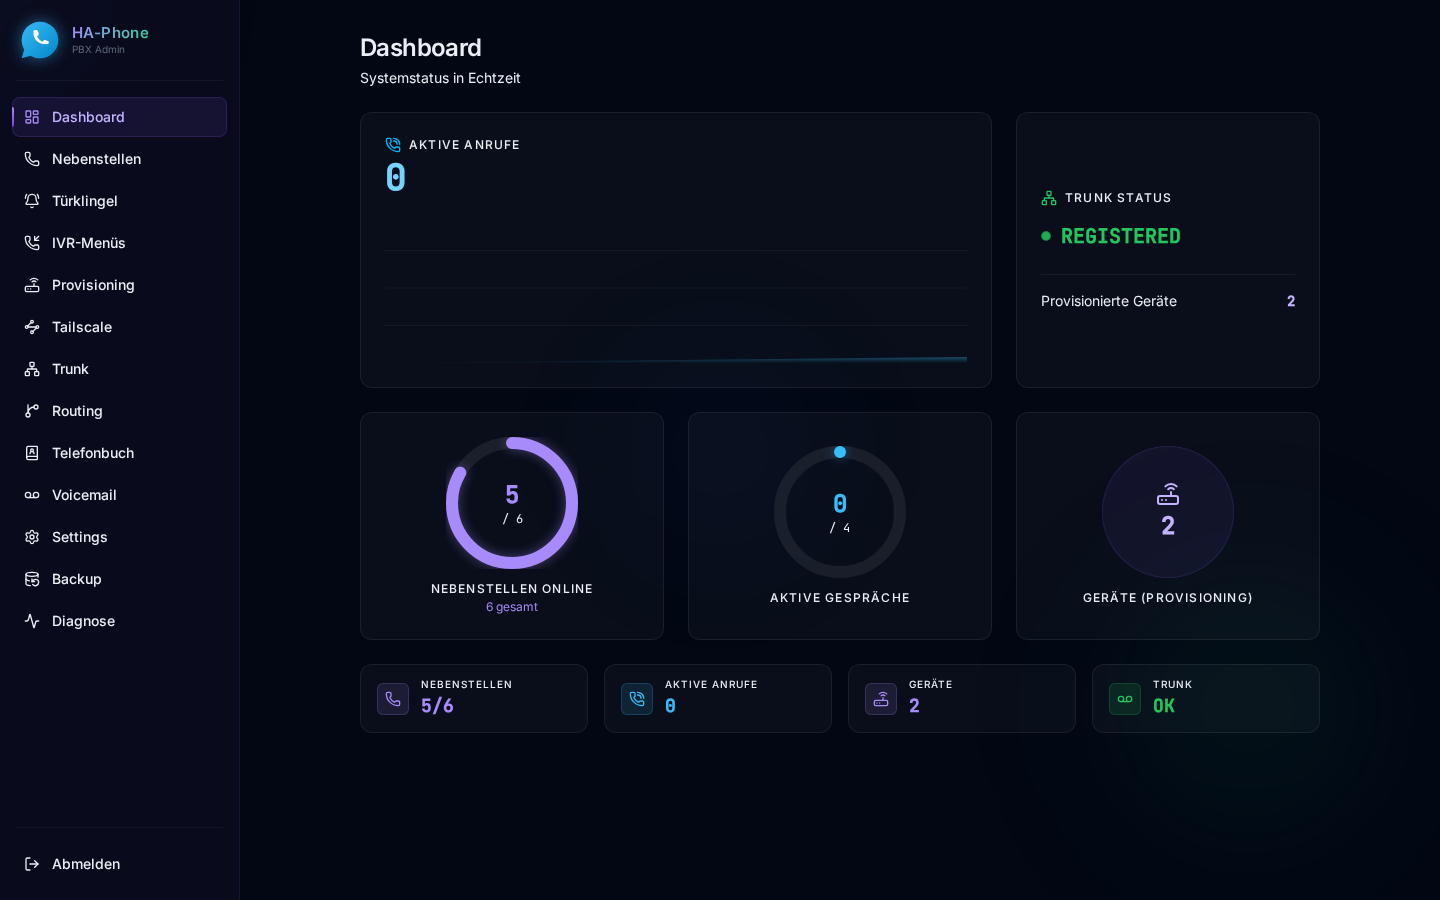
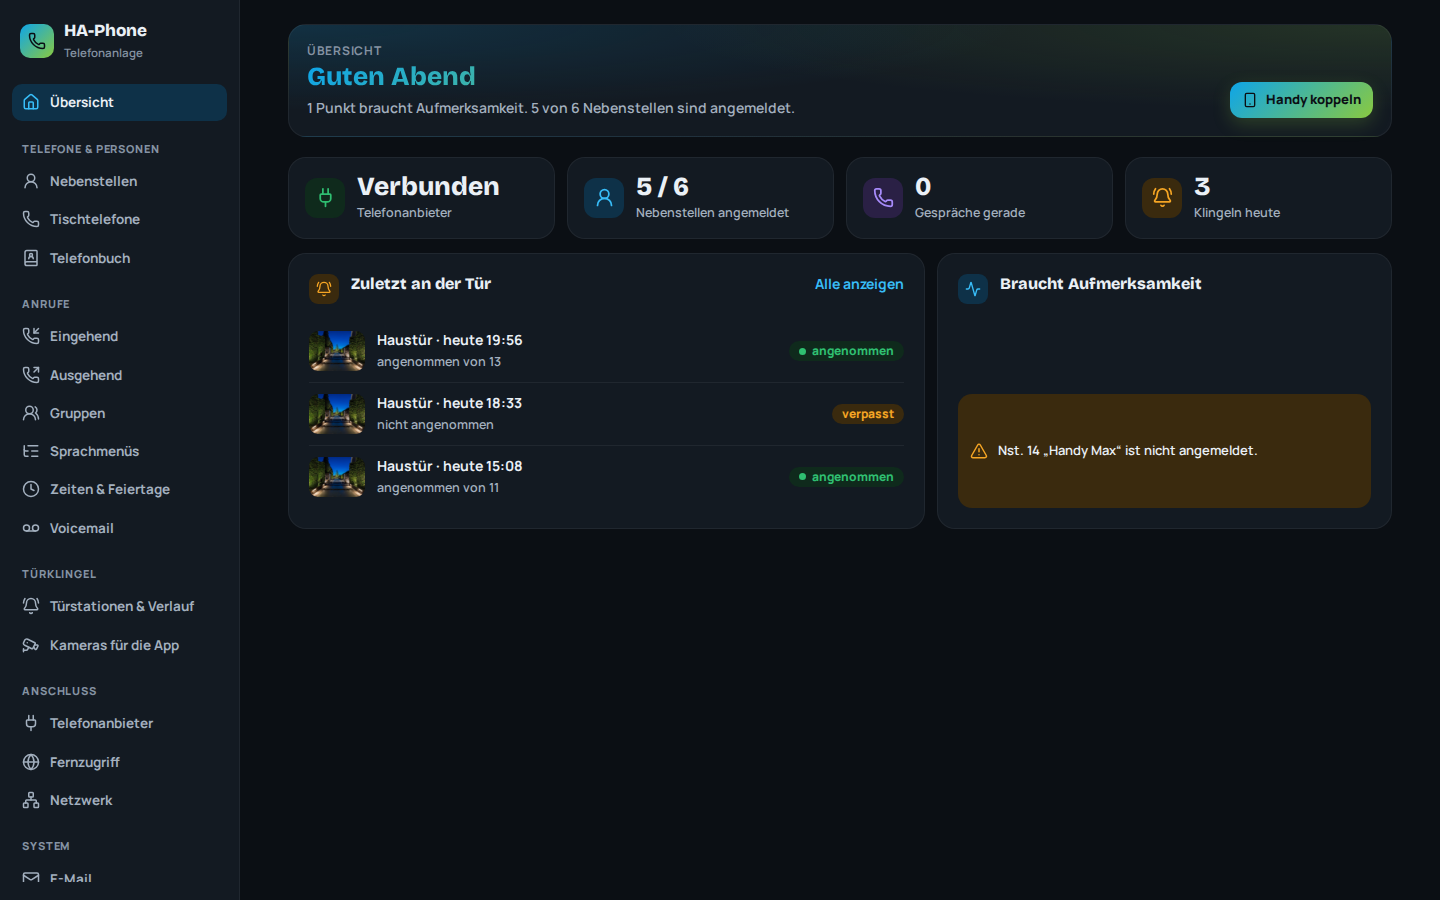
docs(readme): Screenshots der neuen Admin-Oberfläche (0.7.158) und Navigation im Text angepasst
Claude-Session: https://claude.ai/code/session_01Tb211UeES2ucPFStDvonTq

diff --git a/README.md b/README.md
@@ -14,11 +14,11 @@
 
 ---
 
-HA-Phone turns your Home Assistant into a complete telephone system: connect a SIP trunk from your provider, register desk phones, DECT bases, door stations and the **HA-Phone App** on your mobile, and route calls — all from a clean dark-mode dashboard.
+HA-Phone turns your Home Assistant into a complete telephone system: connect a SIP trunk from your provider, register desk phones, DECT bases, door stations and the **HA-Phone App** on your mobile, and route calls — all from a clear web UI with a task-based sidebar (*Telefone & Personen*, *Anrufe*, *Türklingel*, *Anschluss*, *System*) that follows your Home Assistant light or dark theme.
 
 ![HA-Phone dashboard](docs/screenshots/dashboard.png)
 
-> All screenshots show example data.
+> The UI is in German. All screenshots show example data (admin UI of version 0.7.158).
 
 ## Features
 
@@ -31,17 +31,24 @@ HA-Phone turns your Home Assistant into a complete telephone system: connect a S
 - **📟 Auto-provisioning** — configure IP phones, DECT bases and door stations by MAC address, like 3CX/Yeastar. Ships with **editable templates** for Yealink, Grandstream, Fanvil and Gigaset.
 - **📬 Voicemail** — per-extension mailboxes with **voicemail-to-email** via your own SMTP server.
 - **📒 Phonebook** — shared contacts, served to desk phones via LDAP and to the app.
-- **📊 Live dashboard and diagnostics** — active calls, registrations with IP, latency and device type, trunk status, one-click network trace (PCAP) for Wireshark.
+- **📊 Overview and diagnostics** — an overview page (*Übersicht*) with trunk status, registered extensions, active calls, the latest door rings and a list of what needs attention; diagnostics with registrations (IP, latency, device type), active channels and a one-click network trace (PCAP) for Wireshark.
 - **🔒 Secure by default** — SIP over TLS, the app API over HTTPS with certificate pinning (fingerprint in the pairing QR), per-device tokens stored as hashes, admin login throttling.
 - **⬆ Updates and backup** — update from the UI via the Home Assistant Supervisor, download and restore a backup of the whole configuration.
 
 <p>
-  <img src="docs/screenshots/nebenstellen.png" width="49%" alt="Extensions with status, ring groups and devices">
-  <img src="docs/screenshots/nebenstelle-tuer.png" width="49%" alt="Editing a door station: door-open webhook, snapshot source and Home Assistant actions">
+  <img src="docs/screenshots/nebenstellen.png" width="49%" alt="Extensions with status, devices and functions">
+  <img src="docs/screenshots/nebenstelle-tuer.png" width="49%" alt="Door station settings: door-open webhook, snapshot source and Home Assistant actions">
 </p>
 <p>
-  <img src="docs/screenshots/tuerklingel.png" width="49%" alt="Doorbell history with a photo of every ring">
+  <img src="docs/screenshots/tuerklingel.png" width="49%" alt="Door stations and doorbell history with a photo of every ring">
   <img src="docs/screenshots/diagnose.png" width="49%" alt="Diagnostics with live registrations">
+</p>
+
+The UI follows the theme of your system or Home Assistant, so there is a light variant too:
+
+<p>
+  <img src="docs/screenshots/dashboard-hell.png" width="49%" alt="Overview in the light theme">
+  <img src="docs/screenshots/tuerklingel-hell.png" width="49%" alt="Doorbell history in the light theme">
 </p>
 
 ## Installation
@@ -51,19 +58,19 @@ HA-Phone turns your Home Assistant into a complete telephone system: connect a S
    https://github.com/iron-exx/HA-Phone
    ```
 2. Install **HA-Phone** and start it.
-3. Open the UI from the sidebar. Default password: `changeme` (you'll be asked to change it on first login).
+3. Open the UI from the Home Assistant sidebar. Default password: `changeme` (you'll be asked to change it on first login).
 
 ## First steps
 
-1. **Trunk** — enter your provider's SIP credentials (login name, password, phone number). See the notes below for Deutsche Glasfaser / outbox.
-2. **Extensions** — add one extension per phone. The SIP password is auto-generated.
-3. **Devices** — pair a mobile with the HA-Phone App (**Nebenstellen → ⋯ → HA-Phone App QR**), set up desk phones with **Auto-Provisioning**, or register any SIP device by hand (server = the Home Assistant host IP, user = extension number, password = the extension's SIP password).
-4. **Routing** — outbound rules come pre-filled with sensible defaults; add an inbound route (your number → an extension or ring group).
+1. **Trunk** (*Anschluss → Telefonanbieter*) — enter your provider's SIP credentials (login name, password, phone number). See the notes below for Deutsche Glasfaser / outbox.
+2. **Extensions** (*Telefone & Personen → Nebenstellen*) — add one extension per phone. The SIP password is auto-generated.
+3. **Devices** — pair a mobile with the HA-Phone App (**Übersicht → Handy koppeln**, or **Nebenstellen → ⋯ → HA-Phone App QR**), set up desk phones with **Auto-Provisioning** (*Tischtelefone*), or register any SIP device by hand (server = the Home Assistant host IP, user = extension number, password = the extension's SIP password).
+4. **Routing** (*Anrufe*) — outbound rules (*Ausgehend*) come pre-filled with sensible defaults; add an inbound route (*Eingehend*: your number → an extension or ring group).
 
 ## Door stations
 
 1. Add an extension for the door station and register the door station against it (or use Auto-Provisioning).
-2. Edit the extension (**Nebenstellen → ⋯ → Bearbeiten**) and switch on **Door station** (*Türstation*). Then fill in what you need (the UI is in German):
+2. Open **Türklingel → Türstationen & Verlauf**, pick the extension under *Weitere Nebenstelle als Türstation einrichten* and click **Einrichten** (later, **Einstellungen** reopens the dialog). Switch on **Door station** (*Türstation*) and fill in what you need:
    - **Door-open webhook** (*Tür-Öffnen-Webhook*) — HA-Phone calls this URL (POST with JSON) when someone swipes "slide to open" in the app, even while it is still ringing. Typically a Home Assistant automation with a webhook trigger that switches your door opener. The app never sees the URL.
    - **Door-open code** (*Tür-Öffnen-Code (DTMF)*) — alternative for door stations that open with a key code during a call.
    - **Snapshot source** (*Klingelbild-Quelle*) — a Home Assistant camera (`camera.…`) or the door station's snapshot URL. HA-Phone takes a picture on every ring for the doorbell history and the app. Use *Testbild holen* to check it.
@@ -77,7 +84,7 @@ Tip for phones that are away: set **Belongs to** (*Gehört zu (Home-Assistant-Pe
 
 ## Remote access
 
-**With the HA-Phone App (recommended):** install the **Tailscale** add-on on your Home Assistant host and join it to your tailnet (userspace networking off). HA-Phone detects it on the **Tailscale** page. From then on, pairing a phone also sets up its tailnet access, either by signing in once on the phone or fully automatic with an OAuth client. On mobile data the app connects through the tailnet, at home it takes the direct path. No ports are opened to the internet.
+**With the HA-Phone App (recommended):** install the **Tailscale** add-on on your Home Assistant host and join it to your tailnet (userspace networking off). HA-Phone detects it on the **Fernzugriff** page (*Anschluss → Fernzugriff*). From then on, pairing a phone also sets up its tailnet access, either by signing in once on the phone or fully automatic with an OAuth client. On mobile data the app connects through the tailnet, at home it takes the direct path. No ports are opened to the internet.
 
 **With other SIP softphones** (Linphone, Zoiper, …): connect the phone to your tailnet or another VPN and use the Tailscale IP of the Home Assistant host as the SIP server. VPN peers count as local, so audio and video flow through the tunnel. Do not use the Home Assistant ingress URL, Cloudflare tunnels or reverse proxies for SIP.
 

diff --git a/ha-phone/README.md b/ha-phone/README.md
@@ -9,7 +9,7 @@
 - **Door stations** — Akuvox, 2N, DoorBird, Fanvil and other SIP intercoms: doorbell history with a photo of every ring, door-open webhook, Home Assistant action buttons
 - **IP phones & softphones** — desk phones and DECT bases (Yealink, Grandstream, Fanvil, Gigaset, Snom) with auto-provisioning, any SIP softphone
 - **Remote access via Tailscale** — no port forwarding; the app joins your tailnet during pairing
-- **Web admin UI** — dark-theme dashboard with live status, no SSH or config files needed
+- **Web admin UI** — task-based navigation, light and dark theme, live status, no SSH or config files needed
 - **Call routing** — inbound routes, ring groups, IVR menus, time conditions, voicemail with email
 - **In-app updates and backup** — via the Home Assistant Supervisor
 
